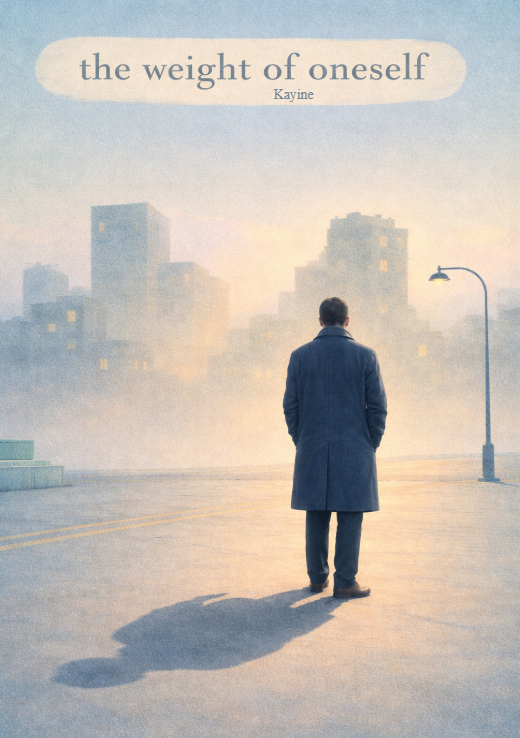
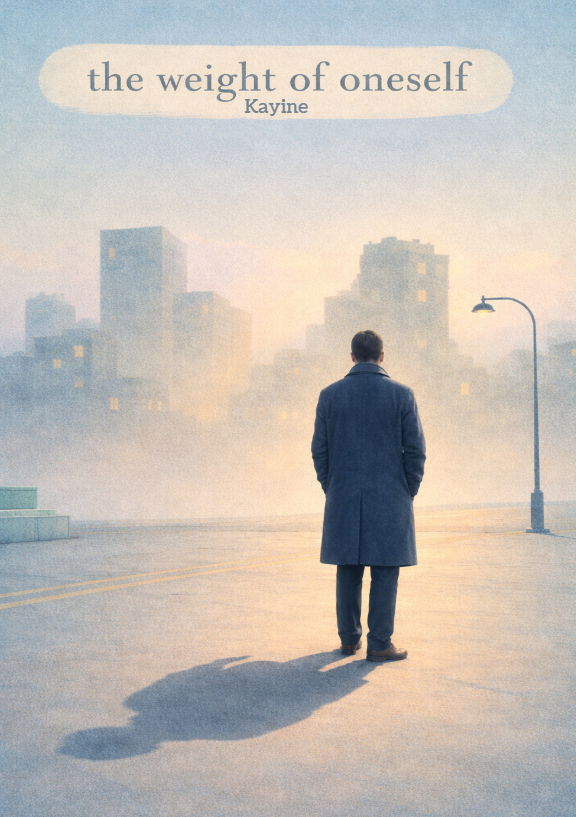
Add files via upload

diff --git a/index.html b/index.html
@@ -16,7 +16,7 @@
 <body>
 <nav><div class="wrap"><a class="brand" href="index.html"><img class="brand-logo" src="logo.png" alt="" width="32" height="32"><span>The Weight of Oneself · Kayine</span></a><ul><li><a href="index.html" aria-current="page">The Book</a></li><li><a href="essays.html">Essays</a></li><li><a href="chapter-1.html">Chapter 1 &amp; Reviews</a></li></ul></div></nav>
 <header class="hero"><div class="wrap">
-<img class="cover" src="cover.jpg" alt="Cover of The Weight of Oneself: a man in a long coat stands with his back to us, facing a city lost in morning fog.">
+<img class="cover" src="cover.png" alt="Cover of The Weight of Oneself: a man in a long coat stands with his back to us, facing a city lost in morning fog.">
 <div>
 <h1>The Weight of Oneself</h1>
 <p class="by">A novel by Kayine</p>
